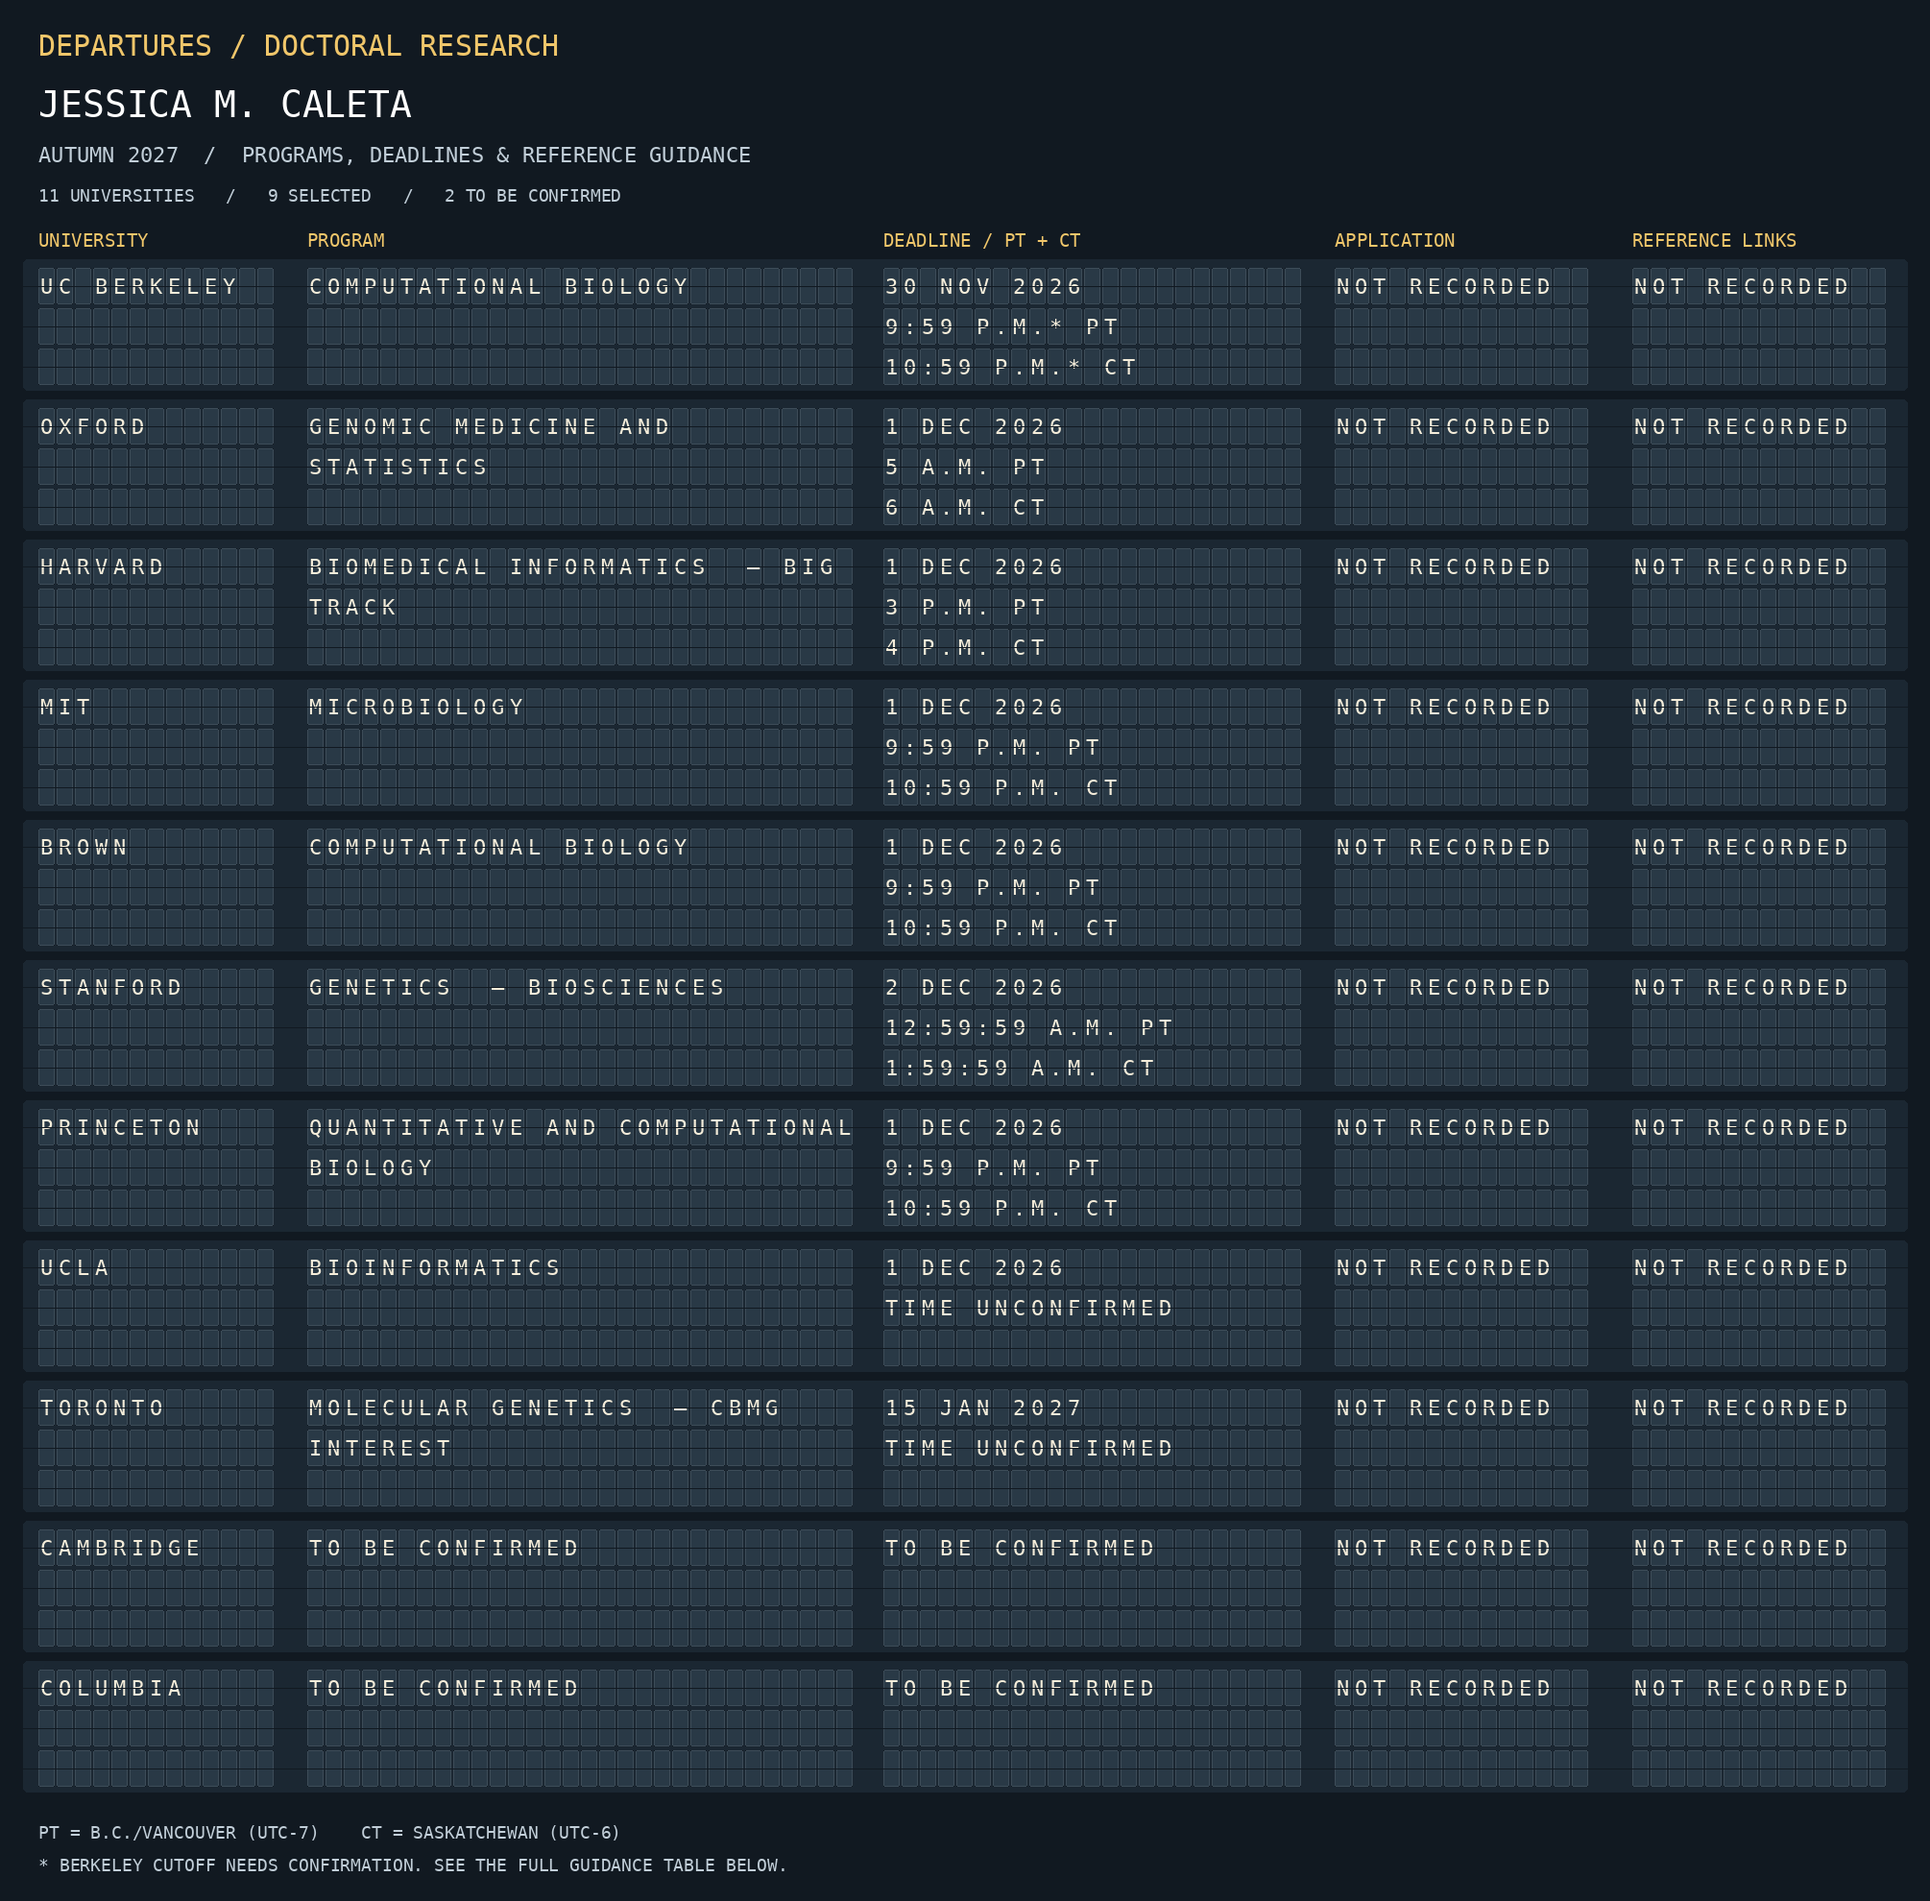
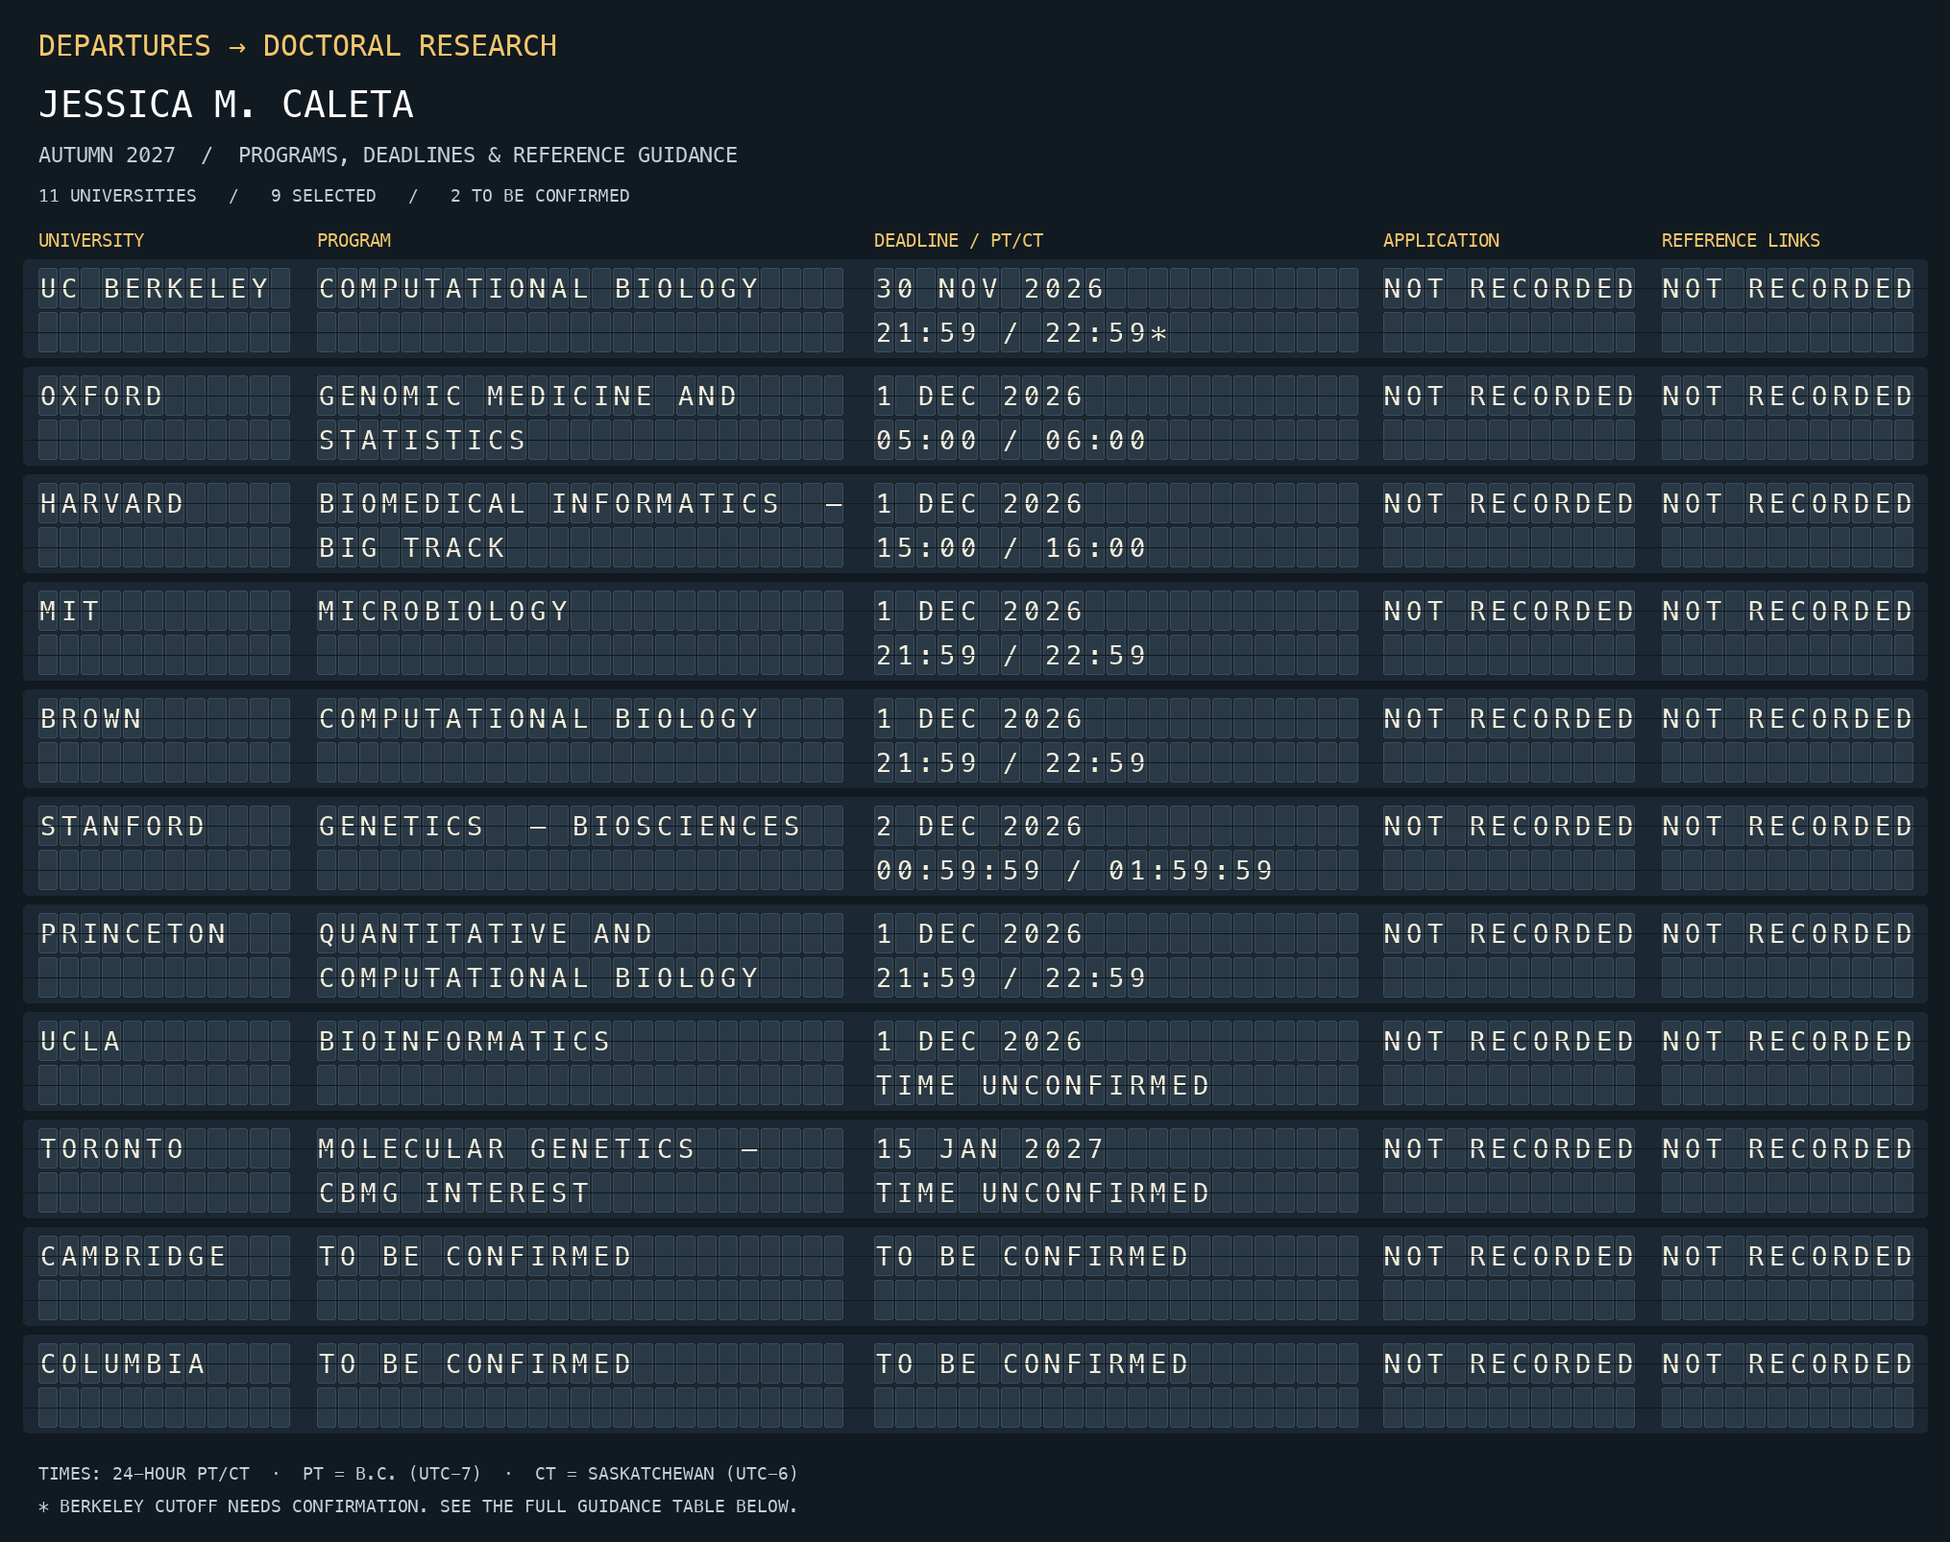
Add airport navigation signs and larger two-line board typography

Changed region(s): [[0.0, 0.0, 0.9871, 0.9963], [0.0, 0.6538, 0.0617, 0.6849]]

diff --git a/scripts/render_animation.py b/scripts/render_animation.py
@@ -16,23 +16,23 @@ def font(size):
         try:return ImageFont.truetype(name,size)
         except OSError:pass
     raise RuntimeError('A monospace font is required')
-FONT=font(22)
-CW,CH,GAP=17,38,2
+FONT=font(27)
+CW,CH,GAP=20,42,2
 STEP=CW+GAP
-COLS=[('university',40,13),('program',320,30),('deadline',920,23),('status',1390,14),('links',1700,14)]
-W=2010
+COLS=[('university',40,12),('program',330,25),('deadline',910,23),('status',1440,12),('links',1730,12)]
+W=2030
 TOP=270
-ROW=146
+ROW=112
 H=TOP+len(rows)*ROW+104
 base=Image.new('RGB',(W,H),'#111921');d=ImageDraw.Draw(base)
 def label(x,y,t,size=20,color='#c1ced8'):
     d.text((x,y),t,font=font(size),fill=color)
-label(40,30,'DEPARTURES / DOCTORAL RESEARCH',30,'#f0c66a')
+label(40,30,'DEPARTURES → DOCTORAL RESEARCH',30,'#f0c66a')
 label(40,86,'JESSICA M. CALETA',38,'#ffffff')
 label(40,148,'AUTUMN 2027  /  PROGRAMS, DEADLINES & REFERENCE GUIDANCE',22)
 pending=sum(r[1]=='TBD' for r in rows)
 label(40,193,f'{len(rows)} UNIVERSITIES   /   {len(rows)-pending} SELECTED   /   {pending} TO BE CONFIRMED',18)
-for (kind,x,n),name in zip(COLS,['UNIVERSITY','PROGRAM','DEADLINE / PT + CT','APPLICATION','REFERENCE LINKS']):label(x,239,name,19,'#f0c66a')
+for (kind,x,n),name in zip(COLS,['UNIVERSITY','PROGRAM','DEADLINE / PT/CT','APPLICATION','REFERENCE LINKS']):label(x,239,name,19,'#f0c66a')
 
 @lru_cache(maxsize=128)
 def card(ch):
@@ -47,7 +47,7 @@ def lines_for(value,width):
     result=[]
     for line in value.split('\n'):
         result.extend(textwrap.wrap(line,width=width,break_long_words=False,break_on_hyphens=False) or [''])
-    assert len(result)<=3,f'Value exceeds cell height: {value}'
+    assert len(result)<=2,f'Value exceeds cell height: {value}'
     assert all(len(v)<=width for v in result),value
     return result
 
@@ -59,24 +59,36 @@ for i,(uni,program,deadline,guidance,notes,status,links) in enumerate(rows):
     if program=='TBD':prog='TO BE CONFIRMED'
     if '<br>' in deadline:
         date,times=deadline.split('<br>',1)
-        dl=date+'\n'+times.replace(' / ','\n')
+        # 24-hour PT/CT pair keeps both local times on one line without dropping seconds.
+        def clock(t):
+            match=re.search(r'(\d{1,2}):(\d{2})(?::(\d{2}))?\s*(a|p)\.m\.',t,re.I)
+            if not match:
+                match=re.search(r'(\d{1,2})\s*(a|p)\.m\.',t,re.I)
+                hour=int(match[1])%12+(12 if match[2].lower()=='p' else 0)
+                return f'{hour:02d}:00'
+            hour=int(match[1])%12+(12 if match[4].lower()=='p' else 0)
+            return f'{hour:02d}:{match[2]}'+(':'+match[3] if match[3] else '')
+        pt,ct=times.split(' / ')
+        dl=date+'\n'+clock(pt)+' / '+clock(ct)+('*' if '*' in times else '')
     else:dl='TO BE CONFIRMED' if deadline.startswith('TBD') else deadline.split(' — ')[0]+'\nTIME UNCONFIRMED'
-    vals=[uni,prog,dl,'NOT RECORDED' if status in ('—','') else status,links]
-    for line_no in range(3):
+    # Put a dated status on its second line, keeping invitation updates readable.
+    compact_status=lambda value: re.sub(r'\s*\(([^)]+)\)',r'\n\1',value)
+    vals=[uni,prog,dl,'NOT RECORDED' if status in ('—','') else compact_status(status),compact_status(links)]
+    for line_no in range(2):
         # The row ruling and every character hinge occupy the exact same y coordinate.
-        hinge=y+9+line_no*42+CH//2
+        hinge=y+9+line_no*46+CH//2
         d.line((24,hinge,W-24,hinge),fill='#111921',width=1)
     for (kind,x,width),val in zip(COLS,vals):
         content=lines_for(plain(val).upper(),width)
         slots=[]
-        for line_no in range(3):
+        for line_no in range(2):
             line=content[line_no] if line_no<len(content) else ''
             for j,ch in enumerate(line.ljust(width)):
-                pos=(x+j*STEP,y+9+line_no*42)
+                pos=(x+j*STEP,y+9+line_no*46)
                 base.paste(card(ch),pos)
                 if ch!=' ':slots.append((pos,ch))
         groups[(i,kind)]=slots
-label(40,H-82,'PT = B.C./VANCOUVER (UTC-7)    CT = SASKATCHEWAN (UTC-6)',18)
+label(40,H-82,'TIMES: 24-HOUR PT/CT  ·  PT = B.C. (UTC-7)  ·  CT = SASKATCHEWAN (UTC-6)',18)
 label(40,H-48,'* BERKELEY CUTOFF NEEDS CONFIRMATION. SEE THE FULL GUIDANCE TABLE BELOW.',18)
 base.save(ROOT/'assets/application-board-still.png')
 palette=base.quantize(colors=128)
@@ -128,7 +140,7 @@ path=ROOT/'assets/application-board.gif'
 frames[0].save(path,save_all=True,append_images=frames[1:],duration=durations,loop=0,disposal=1,optimize=True)
 # Verify that dates and times never move, and the sequence returns to the actual data.
 with Image.open(path) as gif:
-    first=gif.convert('RGB');region=(910,TOP,1370,TOP+len(rows)*ROW)
+    first=gif.convert('RGB');region=(900,TOP,1430,TOP+len(rows)*ROW)
     for i in range(gif.n_frames):
         gif.seek(i)
         assert ImageChops.difference(first.crop(region),gif.convert('RGB').crop(region)).getbbox() is None

diff --git a/scripts/render_board.py b/scripts/render_board.py
@@ -18,7 +18,11 @@ updated = re.search(r'Updated ([^\n]+)', info)
 updated = updated.group(1) if updated else 'See program guide'
 readme='''# Jessica M. Caleta · PhD referee package
 
-[Academic CV · PDF](Jessica_Caleta_Academic_CV.pdf) &nbsp; / &nbsp; [Research brief](Research_Brief.md) &nbsp; / &nbsp; [Program information](Program_Info.md)
+<p>
+<a href="Jessica_Caleta_Academic_CV.pdf"><img src="assets/academic-cv-sign.svg" alt="Academic CV — qualifications and publications" width="280"></a>
+<a href="Research_Brief.md"><img src="assets/research-brief-sign.svg" alt="Research brief — interests and experience" width="280"></a>
+<a href="Program_Info.md"><img src="assets/program-guide-sign.svg" alt="Program guide — deadlines and references" width="280"></a>
+</p>
 
 [![PhD application board — click to jump to linked programs and guidance](assets/application-board.gif)](#programs-deadlines--reference-letters)
 

diff --git a/README.md b/README.md
@@ -1,6 +1,10 @@
 # Jessica M. Caleta · PhD referee package
 
-[Academic CV · PDF](Jessica_Caleta_Academic_CV.pdf) &nbsp; / &nbsp; [Research brief](Research_Brief.md) &nbsp; / &nbsp; [Program information](Program_Info.md)
+<p>
+<a href="Jessica_Caleta_Academic_CV.pdf"><img src="assets/academic-cv-sign.svg" alt="Academic CV — qualifications and publications" width="280"></a>
+<a href="Research_Brief.md"><img src="assets/research-brief-sign.svg" alt="Research brief — interests and experience" width="280"></a>
+<a href="Program_Info.md"><img src="assets/program-guide-sign.svg" alt="Program guide — deadlines and references" width="280"></a>
+</p>
 
 [![PhD application board — click to jump to linked programs and guidance](assets/application-board.gif)](#programs-deadlines--reference-letters)
 
